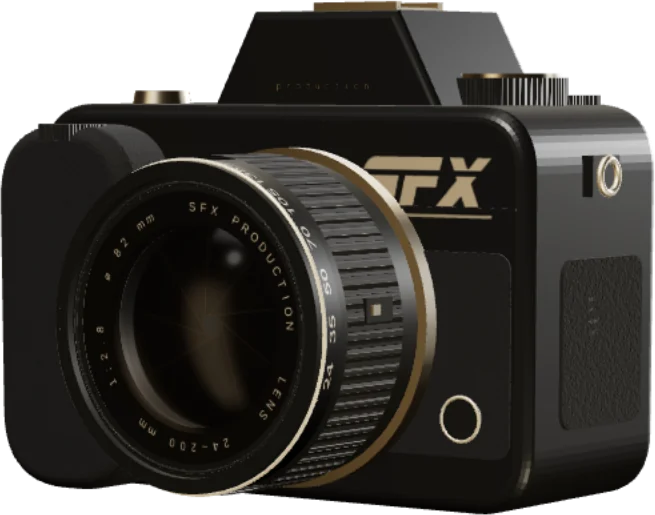
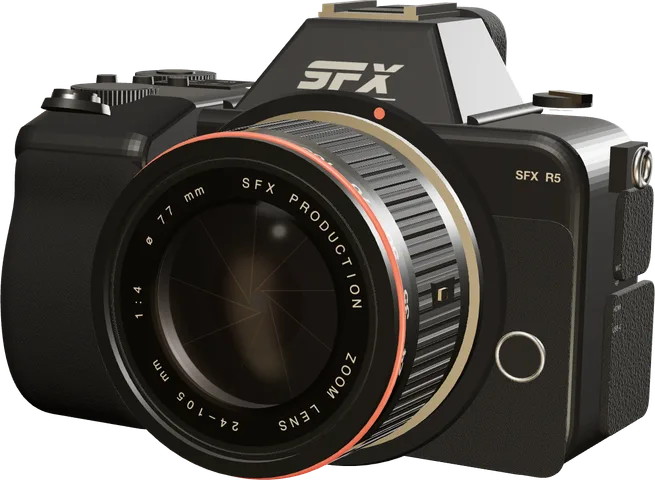
Nový 3D model fotoaparátu podle proporcí bezzrcadlovky (R5), nový plakát pro mobily
- tělo s hlubokým gripem, zkoseným hledáčkem, horním LCD, kolečky, sáňkami a bajonetem
- objektiv 24–105 mm f/4 s červeným proužkem, HUD podle něj
- 3D se na desktopu nevypíná kvůli odhadu rychlosti '3g'
- Umami měří jen na produkční doméně

diff --git a/src/js/camera3d.js b/src/js/camera3d.js
@@ -42,7 +42,7 @@ function _initCamera3D(canvas, logoUrl, hooks){
 
   /* ---- materials ---- */
   const M = {
-    body: new T.MeshStandardMaterial({color:0x050505, roughness:.38, metalness:.2, envMapIntensity:.3}),
+    body: new T.MeshStandardMaterial({color:0x060606, roughness:.46, metalness:.18, envMapIntensity:.28}),
     leather: new T.MeshStandardMaterial({color:0x050505, roughness:.9, metalness:0, envMapIntensity:.15, bumpMap:leather, bumpScale:.02}),
     barrel: new T.MeshStandardMaterial({color:0x090908, roughness:.32, metalness:.4, envMapIntensity:.35, side:T.DoubleSide}),
     rubber: new T.MeshStandardMaterial({side:T.DoubleSide, color:0x060606, roughness:.75, metalness:.1, envMapIntensity:.3, bumpMap:knurl, bumpScale:.04}),
@@ -55,56 +55,23 @@ function _initCamera3D(canvas, logoUrl, hooks){
   const rig = new T.Group(); scene.add(rig);
   const model = new T.Group(); rig.add(model);
 
-  /* ---- body ---- */
   function rrect(w,h,r){ const s=new T.Shape(); const x=-w/2,y=-h/2; s.moveTo(x+r,y); s.lineTo(x+w-r,y); s.quadraticCurveTo(x+w,y,x+w,y+r); s.lineTo(x+w,y+h-r); s.quadraticCurveTo(x+w,y+h,x+w-r,y+h); s.lineTo(x+r,y+h); s.quadraticCurveTo(x,y+h,x,y+h-r); s.lineTo(x,y+r); s.quadraticCurveTo(x,y,x+r,y); return s; }
-  const BD = 1.3;
-  const bodyGeo = new T.ExtrudeGeometry(rrect(3.5,2.2,.3), {depth:BD, bevelEnabled:true, bevelThickness:.09, bevelSize:.09, bevelSegments:5, curveSegments:14});
-  bodyGeo.translate(0,0,-BD/2);
-  const body = new T.Mesh(bodyGeo, M.body); model.add(body);
-  const FRONT = BD/2 + .09;
-
-  // leatherette band on the front
-  const band = new T.Mesh(new T.ExtrudeGeometry(rrect(3.46,1.2,.12),{depth:.02,bevelEnabled:false}), M.leather);
-  band.position.set(0,-.25,FRONT-.005); model.add(band);
-
-  // grip (viewer's left when facing front)
-  const gripGeo = new T.ExtrudeGeometry(rrect(.85,2.05,.36),{depth:.55,bevelEnabled:true,bevelThickness:.12,bevelSize:.1,bevelSegments:6,curveSegments:12});
-  const grip = new T.Mesh(gripGeo, M.leather); grip.position.set(-1.28,-.06,FRONT-.2); model.add(grip);
-
-  // viewfinder hump
-  const hs = new T.Shape(); hs.moveTo(-.85,0); hs.lineTo(.85,0); hs.lineTo(.5,.62); hs.lineTo(-.5,.62); hs.closePath();
-  const hump = new T.Mesh(new T.ExtrudeGeometry(hs,{depth:1.05,bevelEnabled:true,bevelThickness:.05,bevelSize:.05,bevelSegments:3}), M.body);
-  hump.position.set(.2,1.08,-.62); model.add(hump);
-  const shoe = new T.Mesh(new T.BoxGeometry(.62,.07,.5), M.gold); shoe.position.set(.2,1.74,-.1); model.add(shoe);
-
-  // dials + shutter
-  const dial = new T.Mesh(new T.CylinderGeometry(.34,.34,.2,48), M.rubber); dial.position.set(1.18,1.25,-.1); model.add(dial);
-  const dialCap = new T.Mesh(new T.CylinderGeometry(.3,.3,.03,48), M.gold); dialCap.position.set(1.18,1.36,-.1); model.add(dialCap);
-  const shutter = new T.Mesh(new T.CylinderGeometry(.17,.19,.1,40), M.gold); shutter.position.set(-1.28,1.22,.18); model.add(shutter);
-  const shutterRing = new T.Mesh(new T.CylinderGeometry(.25,.25,.06,40), M.barrel); shutterRing.position.set(-1.28,1.16,.18); model.add(shutterRing);
-
-  // brand badge with the logo
-  if(logoUrl){
-    new T.TextureLoader().load(logoUrl, tex=>{
-      tex.encoding = T.sRGBEncoding;
-      const badge = new T.Mesh(new T.PlaneGeometry(.95,.35), new T.MeshStandardMaterial({map:tex, transparent:true, color:0xe6cfa6, metalness:.85, roughness:.28, envMapIntensity:1.8}));
-      badge.position.set(1.12,.72,FRONT+.004); model.add(badge); dirty = 3;
-      hooks && hooks.ready && hooks.ready();
-    });
-  }
-
+  const steel = new T.MeshStandardMaterial({color:0xb9b6b0, roughness:.22, metalness:1, envMapIntensity:1.4});
+  const matte = new T.MeshStandardMaterial({color:0x070707, roughness:.5, metalness:.15, envMapIntensity:.35});
+  const glassBlack = new T.MeshPhysicalMaterial({color:0x020203, roughness:.06, metalness:.2, clearcoat:1, clearcoatRoughness:.03, envMapIntensity:1.4});
+  const red = new T.MeshStandardMaterial({color:0xc4221a, roughness:.35, metalness:.3, emissive:0x2a0402});
+  const LX = .2, LY = -.12, FRONT = .45;   // lens axis on the front face
   /* ---- lens ---- */
-  const LX = .2, LY = -.08;           // lens axis position on the front
   const lens = new T.Group(); lens.position.set(LX,LY,FRONT); model.add(lens);
   const cyl = (r1,r2,len,mat,seg=72)=>{ const g=new T.CylinderGeometry(r1,r2,len,seg,1,true); g.rotateX(Math.PI/2); g.translate(0,0,len/2); return new T.Mesh(g,mat); };
 
-  const mount = cyl(1.02,1.02,.12,M.gold); lens.add(mount);
-  const mountFace = new T.Mesh(new T.RingGeometry(.9,1.02,72), M.gold); mountFace.position.z=.121; lens.add(mountFace);
+  const mount = cyl(1.02,1.02,.12,steel); lens.add(mount);
+  const mountFace = new T.Mesh(new T.RingGeometry(.9,1.02,72), steel); mountFace.position.z=.121; lens.add(mountFace);
   const s0cap = new T.Mesh(new T.RingGeometry(.87,.96,72), M.barrel);
   const s0 = new T.Group(); lens.add(s0); s0.position.z=.12;
   s0.add(cyl(.96,.96,1.0,M.barrel));
   const zoomRing = cyl(.99,.99,.55,M.rubber); zoomRing.position.z=.2; s0.add(zoomRing);
-  const goldStripe = new T.Mesh(new T.TorusGeometry(.965,.014,12,96), M.goldLine); goldStripe.position.z=.94; s0.add(goldStripe);
+  const goldStripe = new T.Mesh(new T.TorusGeometry(.966,.02,12,96), red); goldStripe.position.z=.92; s0.add(goldStripe);
   s0cap.position.z=1.0; s0.add(s0cap);
   const s1cap = new T.Mesh(new T.RingGeometry(.79,.87,72), M.barrel);
 
@@ -122,7 +89,7 @@ function _initCamera3D(canvas, logoUrl, hooks){
   const tc = document.createElement('canvas'); tc.width = tc.height = 1024; const tg = tc.getContext('2d');
   tg.fillStyle='#0f0d0c'; tg.fillRect(0,0,1024,1024);
   tg.translate(512,512); tg.fillStyle='#e9dcc4'; tg.font='500 44px Archivo, Helvetica, sans-serif'; tg.textAlign='center';
-  const txt = 'SFX PRODUCTION   LENS   24–200 mm   1:2.8   ⌀ 82 mm   ';
+  const txt = 'SFX PRODUCTION   ZOOM LENS   24–105 mm   1:4   ⌀ 77 mm   ';
   const R = 430, step = (Math.PI*2)/txt.length;
   for(let i=0;i<txt.length;i++){ tg.save(); tg.rotate(i*step); tg.fillText(txt[i],0,-R+20); tg.restore(); }
   const ringTex = new T.CanvasTexture(tc); ringTex.encoding = T.sRGBEncoding; ringTex.anisotropy = 8;
@@ -177,7 +144,7 @@ function _initCamera3D(canvas, logoUrl, hooks){
 
   // printed focal scale band (s0, between zoom ring and gold stripe)
   const zoomScale = tex(2048,96,(g,w,h)=>{ g.fillStyle='#0c0b0a'; g.fillRect(0,0,w,h); g.fillStyle='#ece3d2'; g.font=`600 50px ${FONTS}`; g.textAlign='center'; g.textBaseline='middle';
-    ['24','35','50','70','105','135','200'].forEach((n,i)=>g.fillText(n, 430+i*92, h/2)); g.fillStyle='#d8be92'; g.fillRect(380,8,4,14); });
+    ['24','35','50','70','105'].forEach((n,i)=>g.fillText(n, 440+i*110, h/2)); g.fillStyle='#d8be92'; g.fillRect(380,8,4,14); });
   const zb = cyl(.962,.962,.16,printMat(zoomScale)); zb.position.z=.77; s0.add(zb);
   // focus distance band on s1
   const focusScale = tex(2048,96,(g,w,h)=>{ g.fillStyle='#0c0b0a'; g.fillRect(0,0,w,h); g.fillStyle='#ece3d2'; g.font=`500 44px ${FONTS}`; g.textAlign='center'; g.textBaseline='middle';
@@ -194,42 +161,115 @@ function _initCamera3D(canvas, logoUrl, hooks){
   const retain = new T.Mesh(new T.TorusGeometry(.605,.018,10,96), dark); retain.position.z=.86; s2.add(retain);
   const thread = new T.Mesh(new T.TorusGeometry(.835,.008,8,96), M.barrel); thread.position.z=.96; s2.add(thread);
 
-  // body seam + strap lugs
-  const seam = new T.Mesh(new T.BoxGeometry(3.52,.016,.012), dark); seam.position.set(0,.6,FRONT+.004); model.add(seam);
+  /* ---- body (proportions after a full-frame mirrorless pro body: 138 × 98 × 88 mm, 1 unit ≈ 40 mm) ---- */
+  const add = (geo, mat, x=0, y=0, z=0, rx=0, ry=0, rz=0) => { const m = new T.Mesh(geo, mat); m.position.set(x,y,z); m.rotation.set(rx,ry,rz); model.add(m); return m; };
+  // move front-half vertices back in proportion to height (sloped faces of the viewfinder housing / grip top)
+  function shear(geo, zMid, y0, k){ const p = geo.attributes.position; for(let i=0;i<p.count;i++){ const z=p.getZ(i), y=p.getY(i); if(z>zMid) p.setZ(i, z - Math.max(0,y-y0)*k); } p.needsUpdate = true; geo.computeVertexNormals(); return geo; }
+
+  // main shell: x −1.75…1.75, y −1.15…0.85, z −0.62…0.45
+  const shellGeo = new T.ExtrudeGeometry(rrect(3.3,1.8,.26), {depth:.87, bevelEnabled:true, bevelThickness:.1, bevelSize:.1, bevelSegments:6, curveSegments:16});
+  shellGeo.translate(0,-.15,-.52); add(shellGeo, M.body);
+
+  // rubberised front panel (everything under the top plate)
+  add(new T.ExtrudeGeometry(rrect(3.42,1.48,.16),{depth:.02,bevelEnabled:false,curveSegments:10}), M.leather, 0, -.38, FRONT-.012);
+
+  // viewfinder housing: faceted trapezoid with a raked front, sits over the lens axis and overhangs the back
+  const hs = new T.Shape(); hs.moveTo(-.74,0); hs.lineTo(.74,0); hs.lineTo(.4,.55); hs.lineTo(-.4,.55); hs.closePath();
+  const humpGeo = new T.ExtrudeGeometry(hs, {depth:1.03, bevelEnabled:true, bevelThickness:.05, bevelSize:.05, bevelSegments:4});
+  humpGeo.translate(0,0,-.72); shear(humpGeo, -.2, 0, .62);
+  add(humpGeo, new T.MeshStandardMaterial({color:0x060606, roughness:.58, metalness:.12, envMapIntensity:.18}), LX, .8, 0);
+  // shoulder fillets so the housing grows out of the top plate
+  [-1,1].forEach(s=>{ const f = add(new T.CylinderGeometry(.07,.07,1.0,12,1,false,0,Math.PI), M.body, LX+s*.8, .86, -.18, Math.PI/2, 0, 0); f.scale.set(1,1,.6); });
+  // eyecup + eyepiece
+  add(new T.ExtrudeGeometry(rrect(.9,.66,.2),{depth:.22,bevelEnabled:true,bevelThickness:.04,bevelSize:.04,bevelSegments:4}), M.leather, LX, 1.08, -1.0);
+  add(new T.PlaneGeometry(.62,.4), glassBlack, LX, 1.08, -1.045, 0, Math.PI, 0);
+  // multi-function shoe
+  add(new T.BoxGeometry(.66,.03,.62), steel, LX, 1.43, -.32);
+  [-.27,.27].forEach(dx=>add(new T.BoxGeometry(.08,.07,.6), steel, LX+dx, 1.46, -.32));
+  add(new T.BoxGeometry(.4,.012,.3), matte, LX, 1.452, -.3);
+
+  // grip: side profile extruded across x, deep and rounded, with a finger recess under the shutter
+  const gs = new T.Shape();
+  gs.moveTo(-.36,-1.01); gs.lineTo(.62,-1.01);
+  gs.bezierCurveTo(1.0,-1.01, 1.14,-.72, 1.15,-.35);
+  gs.bezierCurveTo(1.16,-.05, 1.02,.12, 1.0,.3);
+  gs.bezierCurveTo(.99,.44, 1.02,.52, .9,.6);
+  gs.lineTo(.42,.71); gs.lineTo(-.36,.71); gs.closePath();
+  const gripGeo = new T.ExtrudeGeometry(gs, {depth:.66, bevelEnabled:true, bevelThickness:.15, bevelSize:.14, bevelSegments:8, curveSegments:24});
+  gripGeo.rotateY(-Math.PI/2);
+  const grip = add(gripGeo, M.leather, -.86, 0, 0);
+  // smooth top cap of the grip where the shutter sits
+  const capS = new T.Shape(); capS.moveTo(-.3,.62); capS.lineTo(.42,.62); capS.lineTo(.92,.52); capS.bezierCurveTo(1.05,.48,1.06,.62,.98,.7); capS.lineTo(.46,.86); capS.lineTo(-.3,.86); capS.closePath();
+  const capGeo = new T.ExtrudeGeometry(capS, {depth:.66, bevelEnabled:true, bevelThickness:.15, bevelSize:.06, bevelSegments:6, curveSegments:12});
+  capGeo.rotateY(-Math.PI/2); add(capGeo, M.body, -.86, 0, 0);
+
+  // shutter button on the raked front of the grip, main dial right behind it
+  const SX = -1.33;
+  add(new T.CylinderGeometry(.2,.22,.06,40), matte, SX, .86, .86, -.22, 0, 0);
+  add(new T.CylinderGeometry(.15,.16,.07,40), steel, SX, .9, .87, -.22, 0, 0);
+  add(new T.CylinderGeometry(.135,.14,.03,40), M.body, SX, .94, .875, -.22, 0, 0);
+  const mainDial = add(new T.CylinderGeometry(.28,.28,.11,56), M.rubber, SX, .9, .42); mainDial.material = M.rubber;
+  add(new T.CylinderGeometry(.24,.24,.115,40), matte, SX, .9, .42);
+  // M-Fn / ISO / lamp buttons behind the main dial
+  [[-1.58,.12],[-1.34,.06],[-1.1,.02]].forEach(([x,z])=>add(new T.CylinderGeometry(.065,.07,.05,24), matte, x, .97, z));
+  // top LCD panel
+  const lcdTex = tex(512,320,(g,w,h)=>{ g.fillStyle='#0b0d0c'; g.fillRect(0,0,w,h); g.fillStyle='rgba(220,232,224,.85)'; g.font=`700 64px ${FONTS}`; g.textBaseline='middle';
+    g.fillText('1/250',28,80); g.fillText('F4.0',300,80); g.font=`600 46px ${FONTS}`; g.fillText('ISO 400',28,180); g.fillText('[ 999 ]',300,250); g.fillRect(28,236,200,6); });
+  add(new T.PlaneGeometry(.5,.32), new T.MeshPhysicalMaterial({map:lcdTex, roughness:.08, clearcoat:1, envMapIntensity:.8}), -1.02, .956, -.2, -Math.PI/2, 0, 0);
+  add(new T.BoxGeometry(.58,.02,.4), M.body, -1.02, .945, -.2);
+  // rear top dial with MODE button
+  add(new T.CylinderGeometry(.27,.27,.1,56), M.rubber, -1.38, .93, -.42);
+  add(new T.CylinderGeometry(.13,.13,.12,32), matte, -1.38, .935, -.42);
+  // power switch on the top left
+  add(new T.CylinderGeometry(.17,.17,.06,40), matte, 1.36, .97, -.22);
+  add(new T.BoxGeometry(.28,.05,.08), steel, 1.43, 1.0, -.15, 0, -.5, 0);
+  const onoff = tex(256,128,(g,w,h)=>{ g.fillStyle='rgba(236,227,210,.9)'; g.font=`700 40px ${FONTS}`; g.textAlign='center'; g.fillText('ON',60,80); g.fillText('OFF',190,80); });
+  add(new T.PlaneGeometry(.42,.2), new T.MeshBasicMaterial({map:onoff, transparent:true}), 1.36, .942, .08, -Math.PI/2, 0, 0);
+
+  // lens mount: raised boss, polished bayonet ring and red index dot
+  add(new T.CylinderGeometry(1.12,1.14,.06,96), M.body, LX, LY, FRONT+.03, Math.PI/2, 0, 0);
+  const dot = add(new T.CircleGeometry(.035,20), red, LX + Math.cos(1.25)*1.08, LY + Math.sin(1.25)*1.08, FRONT+.062);
+  // lens release button + depth-of-field button
+  add(new T.CylinderGeometry(.13,.13,.08,40), matte, 1.45, -.42, FRONT+.03, Math.PI/2, 0, 0);
+  add(new T.TorusGeometry(.135,.012,8,40), steel, 1.45, -.42, FRONT+.07);
+  add(new T.CylinderGeometry(.07,.07,.06,24), matte, -.8, -.62, FRONT+.03, Math.PI/2, 0, 0);
+  // AF-assist / self-timer lamp near the top of the grip
+  add(new T.CylinderGeometry(.07,.07,.04,32), new T.MeshPhysicalMaterial({color:0x3a0d06, roughness:.08, clearcoat:1, envMapIntensity:2}), -.82, .52, FRONT+.03, Math.PI/2, 0, 0);
+  // stereo microphone holes either side of the viewfinder housing
+  [-1,1].forEach(s=>{ for(let i=0;i<3;i++) for(let j=0;j<2;j++) add(new T.CircleGeometry(.014,8), matte, LX+s*(.66+i*.045), .74-j*.045, FRONT+.002); });
+
+  // brand on the raked front of the viewfinder housing
+  if(logoUrl){
+    new T.TextureLoader().load(logoUrl, t=>{
+      t.encoding = T.sRGBEncoding;
+      add(new T.PlaneGeometry(.66,.24), new T.MeshStandardMaterial({map:t, transparent:true, color:0xe6cfa6, metalness:.85, roughness:.28, envMapIntensity:1.8}), LX, 1.06, .215, -Math.atan(.62), 0, 0);
+      dirty = 3; hooks && hooks.ready && hooks.ready();
+    });
+  }
+  // model badge, front lower right
+  const badge = tex(512,96,(g,w,h)=>{ g.fillStyle='#e9dcc4'; g.font=`700 58px ${FONTS}`; g.textAlign='right'; g.textBaseline='middle'; g.fillText('SFX  R5', w-10, h/2); });
+  add(new T.PlaneGeometry(.62,.115), new T.MeshStandardMaterial({map:badge, transparent:true, metalness:.7, roughness:.3, envMapIntensity:1.4}), 1.32, .6, FRONT+.003);
+
+  // strap lugs
   [-1,1].forEach(sx=>{
-    const blk = new T.Mesh(new T.BoxGeometry(.08,.24,.3), M.body); blk.position.set(sx*1.87,.78,0); model.add(blk);
-    const lug = new T.Mesh(new T.TorusGeometry(.1,.024,10,32), M.gold); lug.rotation.y=Math.PI/2; lug.position.set(sx*1.93,.78,0); model.add(lug);
+    add(new T.BoxGeometry(.1,.26,.34), M.body, sx*1.8, .62, -.12);
+    add(new T.TorusGeometry(.1,.026,10,32), steel, sx*1.88, .62, -.12, 0, Math.PI/2, 0);
   });
-  // port door on the right side (faces the viewer in profile)
-  const door = new T.Mesh(new T.ExtrudeGeometry(rrect(.9,1.0,.12),{depth:.025,bevelEnabled:false}), M.leather);
-  door.rotation.y=Math.PI/2; door.position.set(1.845,-.2,-.05); model.add(door);
-  const portTex = tex(512,256,(g,w,h)=>{ g.clearRect(0,0,w,h); g.fillStyle='rgba(236,227,210,.75)'; g.font=`500 40px ${FONTS}`; g.textAlign='left'; g.textBaseline='middle';
-    [['MIC',50],['HP',110],['HDMI',170],['USB-C',230]].forEach(([n,y])=>{ g.fillText(n,30,y-20); }); });
-  const portLbl = new T.Mesh(new T.PlaneGeometry(.55,.28), new T.MeshBasicMaterial({map:portTex, transparent:true, opacity:.8}));
-  portLbl.rotation.y=Math.PI/2; portLbl.position.set(1.874,-.05,-.12); model.add(portLbl);
+  // left side (faces the viewer in profile): two rubber port doors with labels
+  [[.25,.5,.5],[-.48,.8,.72]].forEach(([y,h,w])=>add(new T.ExtrudeGeometry(rrect(w,h,.1),{depth:.03,bevelEnabled:true,bevelThickness:.01,bevelSize:.01,bevelSegments:2}), M.leather, 1.84, y, -.1, 0, Math.PI/2, 0));
+  const portTex = tex(512,512,(g,w,h)=>{ g.clearRect(0,0,w,h); g.fillStyle='rgba(236,227,210,.75)'; g.font=`600 46px ${FONTS}`; g.textBaseline='middle';
+    [['MIC',60],['HP',150],['HDMI',300],['USB-C',420]].forEach(([n,y])=>g.fillText(n,40,y)); });
+  add(new T.PlaneGeometry(.5,.5), new T.MeshBasicMaterial({map:portTex, transparent:true, opacity:.85}), 1.885, -.1, .05, 0, Math.PI/2, 0);
+  // card door on the grip side
+  add(new T.ExtrudeGeometry(rrect(.7,1.3,.12),{depth:.02,bevelEnabled:false}), M.body, -1.9, -.2, -.25, 0, -Math.PI/2, 0);
 
-  // front: AF-assist lamp, lens release button, front dial
-  const lamp = new T.Mesh(new T.CylinderGeometry(.075,.075,.04,32), new T.MeshPhysicalMaterial({color:0x3a0d06, roughness:.08, clearcoat:1, envMapIntensity:2}));
-  lamp.rotation.x=Math.PI/2; lamp.position.set(-.72,.78,FRONT+.02); model.add(lamp);
-  const rel = new T.Mesh(new T.CylinderGeometry(.12,.12,.07,40), M.barrel); rel.rotation.x=Math.PI/2; rel.position.set(1.42,-.62,FRONT+.03); model.add(rel);
-  const relRing = new T.Mesh(new T.TorusGeometry(.13,.012,8,40), M.gold); relRing.position.set(1.42,-.62,FRONT+.06); model.add(relRing);
-  const fdial = new T.Mesh(new T.CylinderGeometry(.21,.21,.1,48), M.rubber); fdial.position.set(-1.3,1.02,FRONT+.3); model.add(fdial);
-
-  // top: engraved mode dial face, rear dial, shoe rails, power lever
-  const modeTex = tex(512,512,(g,w,h)=>{ g.fillStyle='#0d0c0b'; g.beginPath(); g.arc(256,256,256,0,Math.PI*2); g.fill();
-    g.translate(256,256); g.fillStyle='#ece3d2'; g.font=`600 54px ${FONTS}`; g.textAlign='center'; g.textBaseline='middle';
-    ['M','A','S','P','C1','C2','AUTO'].forEach((n,i)=>{ g.save(); g.rotate(-Math.PI/2+i*Math.PI*2/7); g.translate(170,0); g.rotate(Math.PI/2); g.fillText(n,0,0); g.restore(); });
-    g.fillStyle='#d8be92'; g.beginPath(); g.arc(0,0,40,0,Math.PI*2); g.fill(); });
-  const modeFace = new T.Mesh(new T.CircleGeometry(.31,48), printMat(modeTex)); modeFace.rotation.x=-Math.PI/2; modeFace.position.set(1.18,1.385,-.1); model.add(modeFace);
-  const rdial = new T.Mesh(new T.CylinderGeometry(.2,.2,.09,48), M.rubber); rdial.position.set(1.3,1.2,-.55); model.add(rdial);
-  [-.28,.28].forEach(dz=>{ const r=new T.Mesh(new T.BoxGeometry(.62,.035,.05), M.gold); r.position.set(.2,1.79,-.1+dz*.8); model.add(r); });
-  const lever = new T.Mesh(new T.BoxGeometry(.2,.05,.08), M.gold); lever.position.set(-1.05,1.16,.28); lever.rotation.y=.5; model.add(lever);
-  // "production" on the viewfinder hump
-  const prodTex = tex(1024,128,(g,w,h)=>{ g.clearRect(0,0,w,h); g.fillStyle='#d8be92'; g.font=`400 70px ${FONTS}`; g.textAlign='center'; g.textBaseline='middle';
-    const word='production'; const sp=78; word.split('').forEach((ch,i)=>g.fillText(ch, w/2+(i-(word.length-1)/2)*sp, h/2)); });
-  const prod = new T.Mesh(new T.PlaneGeometry(.95,.12), new T.MeshStandardMaterial({map:prodTex, transparent:true, metalness:.8, roughness:.3, envMapIntensity:1.5}));
-  prod.position.set(.2,1.3,.485); model.add(prod);
-
+  // back: vari-angle screen, joystick, AF-ON, rear wheel
+  add(new T.ExtrudeGeometry(rrect(2.1,1.42,.1),{depth:.1,bevelEnabled:true,bevelThickness:.02,bevelSize:.02,bevelSegments:2}), matte, .22, -.22, -.74);
+  add(new T.PlaneGeometry(1.9,1.25), glassBlack, .22, -.22, -.765, 0, Math.PI, 0);
+  add(new T.CylinderGeometry(.34,.34,.08,56), M.rubber, -1.3, -.3, -.66, Math.PI/2, 0, 0);
+  add(new T.CylinderGeometry(.1,.1,.1,24), matte, -1.3, -.3, -.66, Math.PI/2, 0, 0);
+  add(new T.CylinderGeometry(.08,.09,.1,24), matte, -1.3, .32, -.66, Math.PI/2, 0, 0);
+  add(new T.CylinderGeometry(.12,.12,.06,24), matte, -1.45, .62, -.65, Math.PI/2, 0, 0);
   /* ---- lights ---- */
   scene.add(new T.AmbientLight(0xffffff,.04));
   const key = new T.DirectionalLight(0xfff1dc, .9); key.position.set(-4,5,6); scene.add(key);
@@ -312,7 +352,9 @@ function _initCamera3D(canvas, logoUrl, hooks){
   return {
     setProgress(p){ P = p; },
     setRunning(v){ running = v; if(v) dirty = 3; },
-    snap(p){ P=p; cur = targetFor(p); apply(cur); renderer.render(scene,cam); hooks && hooks.frame && hooks.frame(cur); }
+    snap(p){ P=p; cur = targetFor(p); apply(cur); renderer.render(scene,cam); hooks && hooks.frame && hooks.frame(cur); },
+    /* still image of a pose (used to render the fallback poster) */
+    shot(p, ry, rx){ running=false; const t=targetFor(p); if(ry!=null) t.ry=ry; if(rx!=null) t.rx=rx; apply(t); renderer.render(scene,cam); return canvas.toDataURL('image/png'); }
   };
 }
 

diff --git a/src/js/pages.js b/src/js/pages.js
@@ -56,7 +56,7 @@ function analyticsTag(){
   const id = esc(String(ANALYTICS.id||'').trim()); if(!id) return '';
   switch(ANALYTICS.provider){
     case 'plausible': return `<script defer data-domain="${id}" src="https://plausible.io/js/script.tagged-events.js"></script><script>window.plausible=window.plausible||function(){(window.plausible.q=window.plausible.q||[]).push(arguments)}</script>`;
-    case 'umami': return `<script defer src="https://cloud.umami.is/script.js" data-website-id="${id}"></script>`;
+    case 'umami': return `<script defer src="https://cloud.umami.is/script.js" data-website-id="${id}" data-domains="${new URL(SITE).hostname}"></script>`;
     case 'goatcounter': return `<script data-goatcounter="https://${id}.goatcounter.com/count" async src="https://gc.zgo.at/count.js"></script>`;
     case 'cloudflare': return `<script defer src="https://static.cloudflareinsights.com/beacon.min.js" data-cf-beacon='{"token":"${id}"}'></script>`;
     default: return '';
@@ -219,7 +219,7 @@ export function homePage(lang){
   <span id="top"></span>
   <section class="hero" id="hero" data-sec>
     <div class="hero-stage">
-      <img class="cam-poster" id="camPoster" src="${c.asset('img/camera-poster.webp')}" alt="" width="655" height="515" decoding="async" fetchpriority="high">
+      <img class="cam-poster" id="camPoster" src="${c.asset('img/camera-poster.webp')}" alt="" width="655" height="480" decoding="async" fetchpriority="high">
       <canvas id="cam3d" aria-hidden="true"></canvas>
       <div class="hero-copy" id="heroCopy">
         <p class="kicker">${esc(H.kicker)}</p>

diff --git a/src/js/app.js b/src/js/app.js
@@ -95,10 +95,10 @@ if(isHome){
 function initHero(){
   const hasGsap = !!(window.gsap && window.ScrollTrigger);
   if(hasGsap) gsap.registerPlugin(ScrollTrigger);
-  const FSTOPS = [22,16,11,8,5.6,4,2.8];
+  const FSTOPS = [22,16,11,8,5.6,4];
   let cam = null, heroP = 0, lastK = -1;
   const shutter = $('#shutter');
-  const frame = c => { $('#hudMm').textContent = Math.round(24+176*Math.min(1,c.e1*.5+c.e2*.5))+' mm'; $('#hudF').textContent = 'f/'+FSTOPS[Math.round(c.ap*(FSTOPS.length-1))]; };
+  const frame = c => { $('#hudMm').textContent = Math.round(24+81*Math.min(1,c.e1*.5+c.e2*.5))+' mm'; $('#hudF').textContent = 'f/'+FSTOPS[Math.round(c.ap*(FSTOPS.length-1))]; };
   function drawShutter(k){
     if(Math.abs(k-lastK)<.004) return; lastK=k;
     if(k<=0){ shutter.innerHTML=''; return; }
@@ -131,7 +131,7 @@ function initHero(){
   }).catch(()=>status(false));
   /* phones on data saver or low memory keep the still image */
   const conn = navigator.connection || {};
-  const lite = conn.saveData || /2g|3g/.test(conn.effectiveType||'') || (innerWidth < 820 && ((navigator.deviceMemory||4) <= 4 || (navigator.hardwareConcurrency||4) <= 4));
+  const lite = conn.saveData || /2g/.test(conn.effectiveType||'') || (innerWidth < 820 && (/3g/.test(conn.effectiveType||'') || (navigator.deviceMemory||4) <= 4 || (navigator.hardwareConcurrency||4) <= 4));
   if(!lite) (window.requestIdleCallback ? requestIdleCallback(start, {timeout:1500}) : setTimeout(start, 400));
   else status(false);
 }
